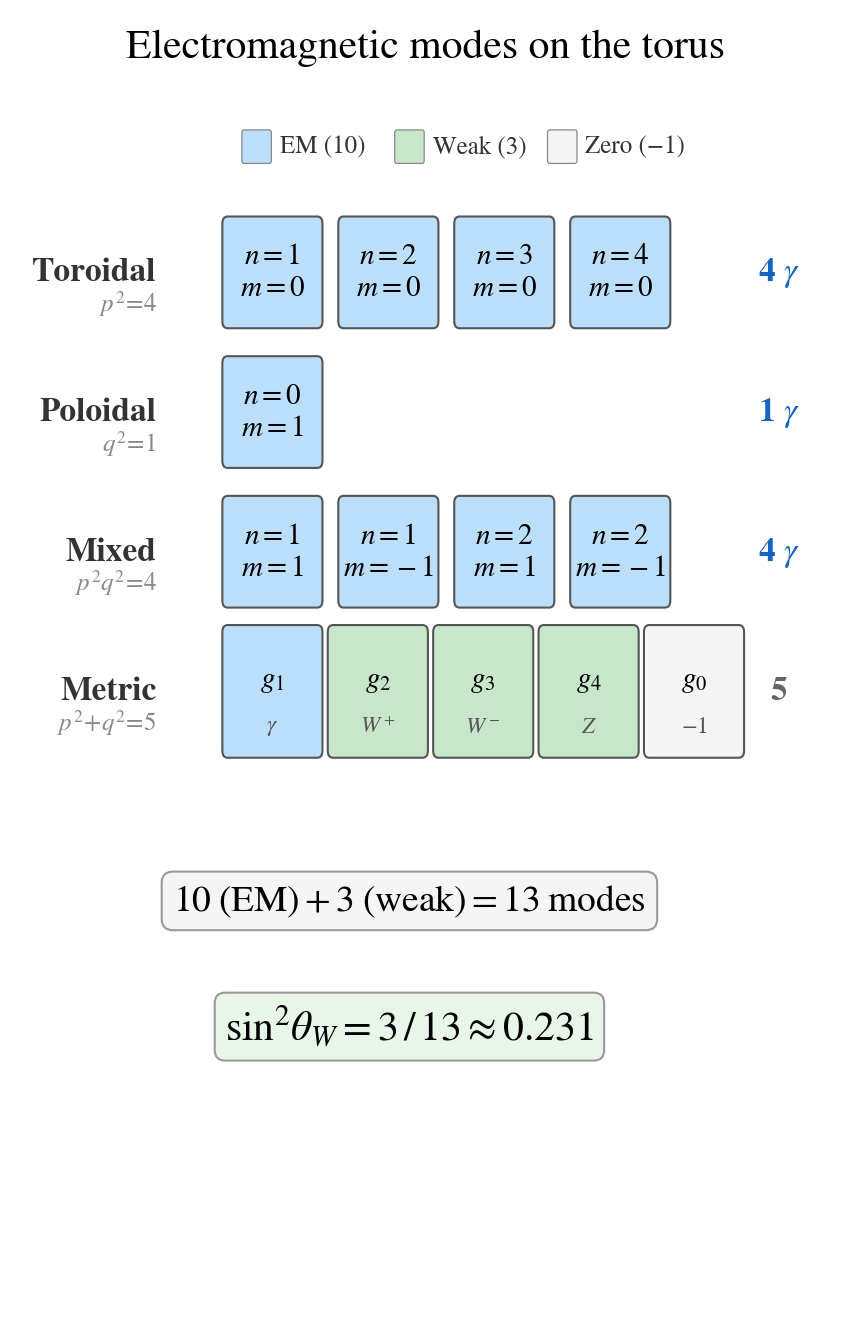
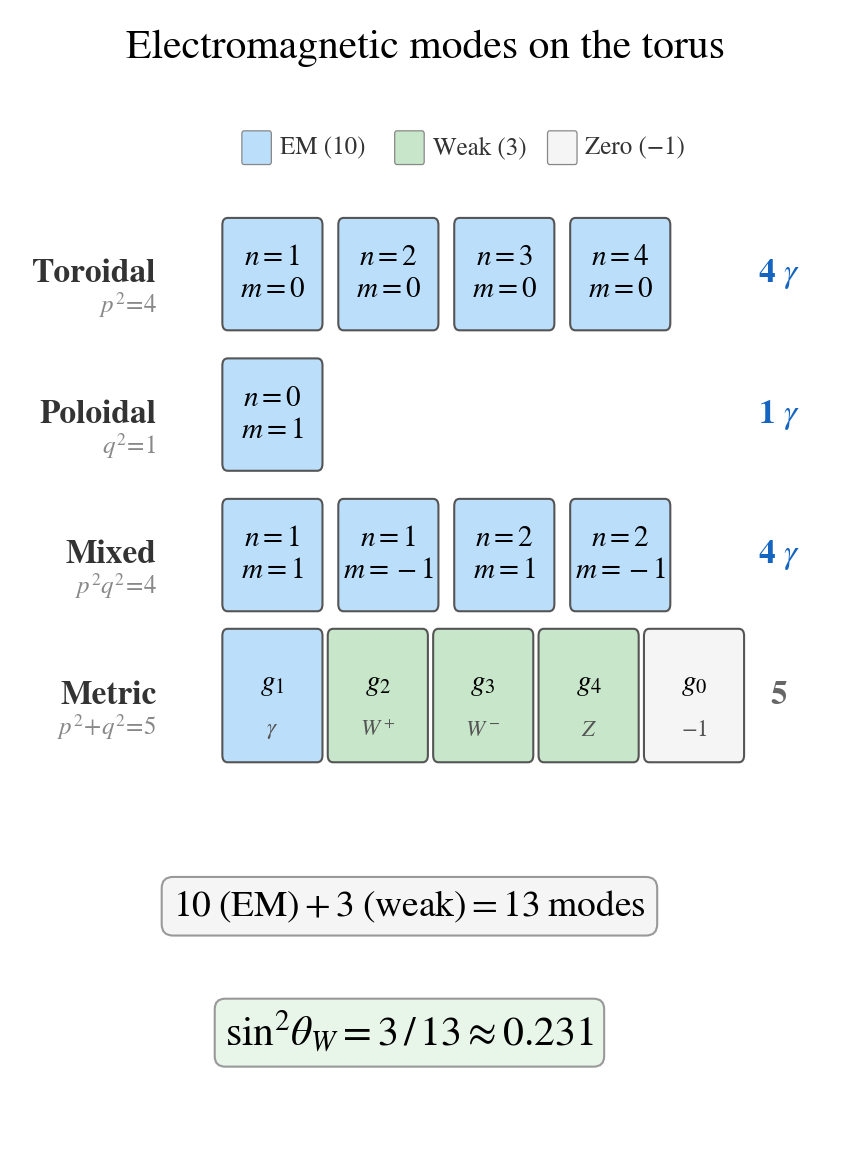
Trim Figure 5 whitespace and fix caption/page-number collision
Tightened ylim from -1.8 to -0.6 and reduced figsize height from 5.2 to 4.5.
Also added [t!] placement and 0.85\columnwidth scaling for Koide sphere figure.

diff --git a/papers/paper1_lepton_spectrum.tex b/papers/paper1_lepton_spectrum.tex
@@ -121,9 +121,9 @@ decomposing as $2\pi/3$ ($\mathbb{Z}_3$ base symmetry) $+$ $2/9$ (winding correc
 
 Masses follow from $\sqrt{m_i} = (S/3)(1 + \sqrt{2}\cos(\theta_K + 2\pi i/3))$. The Koide ratio $Q = 2/3$ is automatic. The three mass eigenstates correspond to unit vectors on a generation sphere (Fig.~\ref{fig:koide-sphere}), separated by $120^\circ$ in azimuth ($\mathbb{Z}_3$ symmetry) with polar angles determined by $\theta_K$.
 
-\begin{figure}[t]
+\begin{figure}[t!]
 \centering
-\includegraphics[width=\columnwidth]{figures/figure4_koide_sphere.png}
+\includegraphics[width=0.85\columnwidth]{figures/figure4_koide_sphere.png}
 \caption{Koide generation sphere. Three mass eigenstates $\sqrt{m_i}$ are represented as unit vectors with $120^\circ$ azimuthal separation ($\mathbb{Z}_3$ symmetry). The Koide angle $\theta_K = (6\pi+2)/9$ determines the polar angles. The equatorial projections show the resulting mass ratios.}
 \label{fig:koide-sphere}
 \end{figure}

diff --git a/papers/figures/generate_figures.py b/papers/figures/generate_figures.py
@@ -721,9 +721,9 @@ def figure5_torus_modes():
     Weak (3) = 3 metric modes that couple to poloidal (weak isospin) sector
     Zero (−1) = gauge d.o.f. subtracted from metric
     """
-    fig, ax = plt.subplots(figsize=(3.4, 5.2))
+    fig, ax = plt.subplots(figsize=(3.4, 4.5))
     ax.set_xlim(-1.5, 6.0)
-    ax.set_ylim(-1.8, 6.8)
+    ax.set_ylim(-0.6, 6.8)
     ax.axis('off')
 
     ax.set_title('Electromagnetic modes on the torus', fontsize=10, pad=8)
